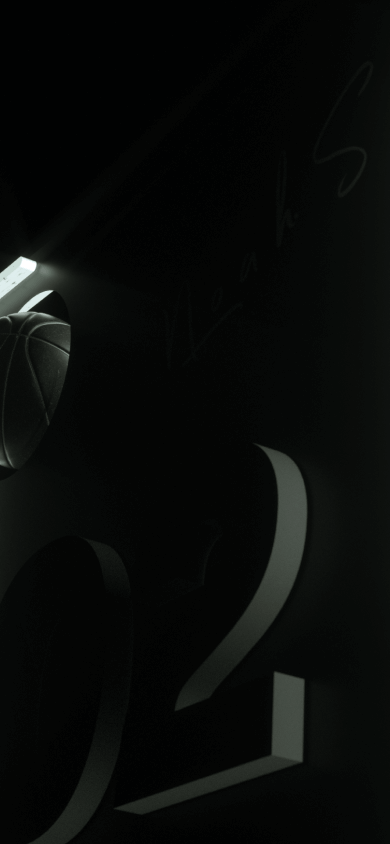
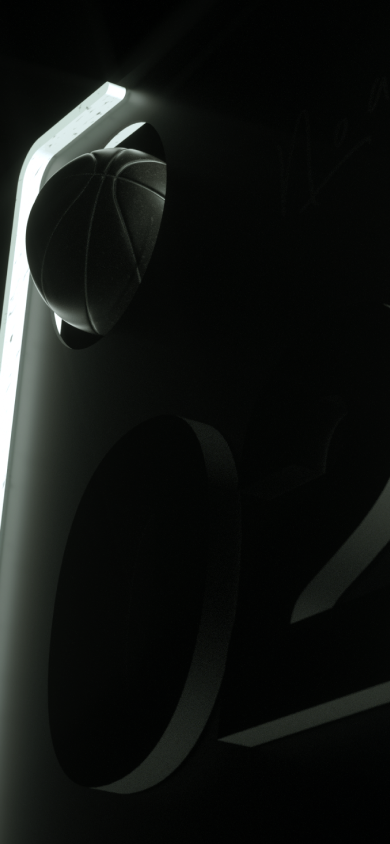
athletes page improved

diff --git a/public/about-us.html b/public/about-us.html
@@ -153,17 +153,20 @@
 
                 <div class="slide-box">
                     <div class="w-full max-w-sm">
-                        <h2 data-aos="fade-up" data-aos-delay="200" data-aos-easing="ease-in-sine" data-aos-duration="600" data-aos-offset="50">About Streak</h2>
+                        <!-- <h2 data-aos="fade-up" data-aos-delay="200" data-aos-easing="ease-in-sine" data-aos-duration="600" data-aos-offset="50">About Streak</h2> -->
                     </div>
 
                     <div class="slide-content-box theme-text">
                         <div class="">
-                            <h3 data-aos="fade-up" data-aos-delay="200" data-aos-easing="ease-in-sine" data-aos-duration="600" data-aos-offset="50">Heading 24</h3>
+                            <!-- <h3 data-aos="fade-up" data-aos-delay="200" data-aos-easing="ease-in-sine" data-aos-duration="600" data-aos-offset="50">Heading 24</h3> -->
                             <p class="theme-text font-normal" data-aos="fade-up" data-aos-delay="250" data-aos-easing="ease-in-sine" data-aos-duration="600" data-aos-offset="50">Streak is a Web3 hyper-social platform that brings fans closer the world’s next wave of superstar athletes.</p>
 
                             <p data-aos="fade-up" data-aos-delay="300" data-aos-easing="ease-in-sine" data-aos-duration="600" data-aos-offset="50">Streak gives the power back to the athlete over their personal brand and their messaging. Our invite-only platform allows athletes to build authentic connections with their most ardent supporters. Athletes have a wide variety of options to choose from to share their story, their experiences and keep fans up to date on their journey. Fans become champions for their favorite athletes through a variety of engagement tools, fostering a community that supports the success of the athlete from high school into retirement.</p>
 
                             <a href="#slide-two" class="mt-10 hero-cta" data-aos="fade-up" data-aos-delay="350" data-aos-easing="ease-in-sine" data-aos-duration="600" data-aos-offset="50">Our Mission</a>
+
+                            <p class="mt-10 text-base" data-aos="fade-up" data-aos-delay="400"
+                        data-aos-easing="ease-in-sine" data-aos-duration="600" data-aos-offset="50">light13 <a href="javascript:void(0);" class="font-normal hover-underline">Action 13</a></p>
                         </div>
                     </div>
                 </div>
@@ -179,21 +182,24 @@
 
                 <div class="slide-box">
                     <div class="w-full max-w-sm">
-                        <h2 data-aos="fade-up" data-aos-delay="200" data-aos-easing="ease-in-sine" data-aos-duration="600" data-aos-offset="50">Our Mission</h2>
+                        <!-- <h2 data-aos="fade-up" data-aos-delay="200" data-aos-easing="ease-in-sine" data-aos-duration="600" data-aos-offset="50">Our Mission</h2> -->
                     </div>
 
                     <div class="slide-content-box theme-text">
                         <div class="">
-                            <h3 data-aos="fade-up" data-aos-delay="200" data-aos-easing="ease-in-sine" data-aos-duration="600" data-aos-offset="50">Streak’s mission is to lead the next generation of digital connection and community</h3>
-                            <p class="theme-text font-normal" data-aos="fade-up" data-aos-delay="250" data-aos-easing="ease-in-sine" data-aos-duration="600" data-aos-offset="50">Streak is a Web3 hyper-social platform that brings fans closer the world’s next wave of superstar athletes.</p>
+                            <!-- <h3 data-aos="fade-up" data-aos-delay="200" data-aos-easing="ease-in-sine" data-aos-duration="600" data-aos-offset="50">Streak’s mission is to lead the next generation of digital connection and community</h3>
+                            <p class="theme-text font-normal" data-aos="fade-up" data-aos-delay="250" data-aos-easing="ease-in-sine" data-aos-duration="600" data-aos-offset="50">Streak is a Web3 hyper-social platform that brings fans closer the world’s next wave of superstar athletes.</p> -->
 
-                            <p data-aos="fade-up" data-aos-delay="300" data-aos-easing="ease-in-sine" data-aos-duration="600" data-aos-offset="50">Streak’s mission is to drive a new era of digital connection.</p>
+                            <p data-aos="fade-up" data-aos-delay="200" data-aos-easing="ease-in-sine" data-aos-duration="600" data-aos-offset="50">Streak’s mission is to drive a new era of digital connection.</p>
 
-                            <p data-aos="fade-up" data-aos-delay="350" data-aos-easing="ease-in-sine" data-aos-duration="600" data-aos-offset="50">The platform is designed for athletes and other culture creators to expand, enhance, and deepen their relationships with their supporters around the world through membership-based access to digital assets and intimate first-person drops.</p>
+                            <p data-aos="fade-up" data-aos-delay="250" data-aos-easing="ease-in-sine" data-aos-duration="600" data-aos-offset="50">The platform is designed for athletes and other culture creators to expand, enhance, and deepen their relationships with their supporters around the world through membership-based access to digital assets and intimate first-person drops.</p>
 
-                           <p data-aos="fade-up" data-aos-delay="400" data-aos-easing="ease-in-sine" data-aos-duration="600" data-aos-offset="50"> With new frontiers in web3, the Streak platform will deliver economic value to original culture creators and those who consume it early with new decentralized capabilities that drive ownership. We believe in the power of ownership and legacy for all.</p>
+                           <p data-aos="fade-up" data-aos-delay="300" data-aos-easing="ease-in-sine" data-aos-duration="600" data-aos-offset="50"> With new frontiers in web3, the Streak platform will deliver economic value to original culture creators and those who consume it early with new decentralized capabilities that drive ownership. We believe in the power of ownership and legacy for all.</p>
 
-                            <a href="#section-three" class="mt-10 hero-cta" data-aos="fade-up" data-aos-delay="450" data-aos-easing="ease-in-sine" data-aos-duration="600" data-aos-offset="50"> our Partners</a>
+                            <a href="#section-three" class="mt-10 hero-cta" data-aos="fade-up" data-aos-delay="350" data-aos-easing="ease-in-sine" data-aos-duration="600" data-aos-offset="50"> our Partners</a>
+
+                            <p class="mt-10 text-base" data-aos="fade-up" data-aos-delay="400"
+                        data-aos-easing="ease-in-sine" data-aos-duration="600" data-aos-offset="50">light13 <a href="javascript:void(0);" class="font-normal hover-underline">Action 13</a></p>
                         </div>
                     </div>
 

diff --git a/public/athletes-new.html b/public/athletes-new.html
@@ -13,7 +13,7 @@
     <link rel="stylesheet" href="css/app.css" >
     <link rel="stylesheet" href="css/app-streak.css" >
 </head>
-<body class="dark-page athletes-page center-theme-slide">
+<body class="dark-page athletes-page center-theme-slide theme-peralex">
     <header>
         <a href="index.html" class="logo" data-aos="fade-right" data-aos-delay="300" data-aos-easing="ease-in-sine" data-aos-duration="600" data-aos-offset="50">
             <svg width="24" height="20" viewBox="0 0 24 20" fill="none" xmlns="http://www.w3.org/2000/svg">
@@ -166,7 +166,7 @@
                         </div>
 
                         <p class="mt-10 text-base" data-aos="fade-up" data-aos-delay="1400"
-                        data-aos-easing="ease-in-sine" data-aos-duration="600" data-aos-offset="50">Are you an athlete? <a href="#slide-two" class="font-normal hover-underline">Be a partner</a></p>
+                        data-aos-easing="ease-in-sine" data-aos-duration="600" data-aos-offset="50">Interested in monetizing your brand? <a href="#slide-two" class="font-normal hover-underline">Apply for athlete access</a></p>
                     </div>
                 </div>
             </div>
@@ -177,8 +177,8 @@
         <!-- slide - 2 -->
         <div class="h-screen theme-slide athlete-slide" id="slide-two">
             <div class="relative h-full">
-                <img src="images/athletes-new/athletes-slide.png" class="slide-bg-img slide-for-desktop" alt="hero background">
-                <img src="images/athletes-new/athletes-slide-mobile.png" class="slide-bg-img slide-for-mob" alt="hero background">
+                <!-- <img src="images/athletes-new/athletes-slide.png" class="slide-bg-img slide-for-desktop" alt="hero background">
+                <img src="images/athletes-new/athletes-slide-mobile.png" class="slide-bg-img slide-for-mob" alt="hero background"> -->
 
                 <div class="slide-box">
                     <div class="max-w-sm">
@@ -193,7 +193,7 @@
         <!-- slide - 2 -->
 
         <!-- slide - 3 -->
-        <div class="h-screen theme-slide athlete-slide form-slide" id="athlete-form">
+        <div class="h-screen theme-slide athlete-slide" id="athlete-form">
             <div class="relative h-full">
 
                 <div class="slide-box">

diff --git a/src/scss/_athletes-page.scss b/src/scss/_athletes-page.scss
@@ -22,6 +22,9 @@
   &.about-page{
     background-image: url("../images/about-us/about-us-bg.png");
   }
+  &.athletes-page{
+    background-image: url("../images/athletes-new/athletes-slide.png");
+  }
 
   @media screen and (max-width: 767px) {
     &.home-page{
@@ -29,6 +32,9 @@
     }
     &.about-page{
       background-position: center right -200px;
+    }
+    &.athletes-page{
+      background-image: url("../images/athletes-new/athletes-slide-mobile.png");
     }
   }
 }
